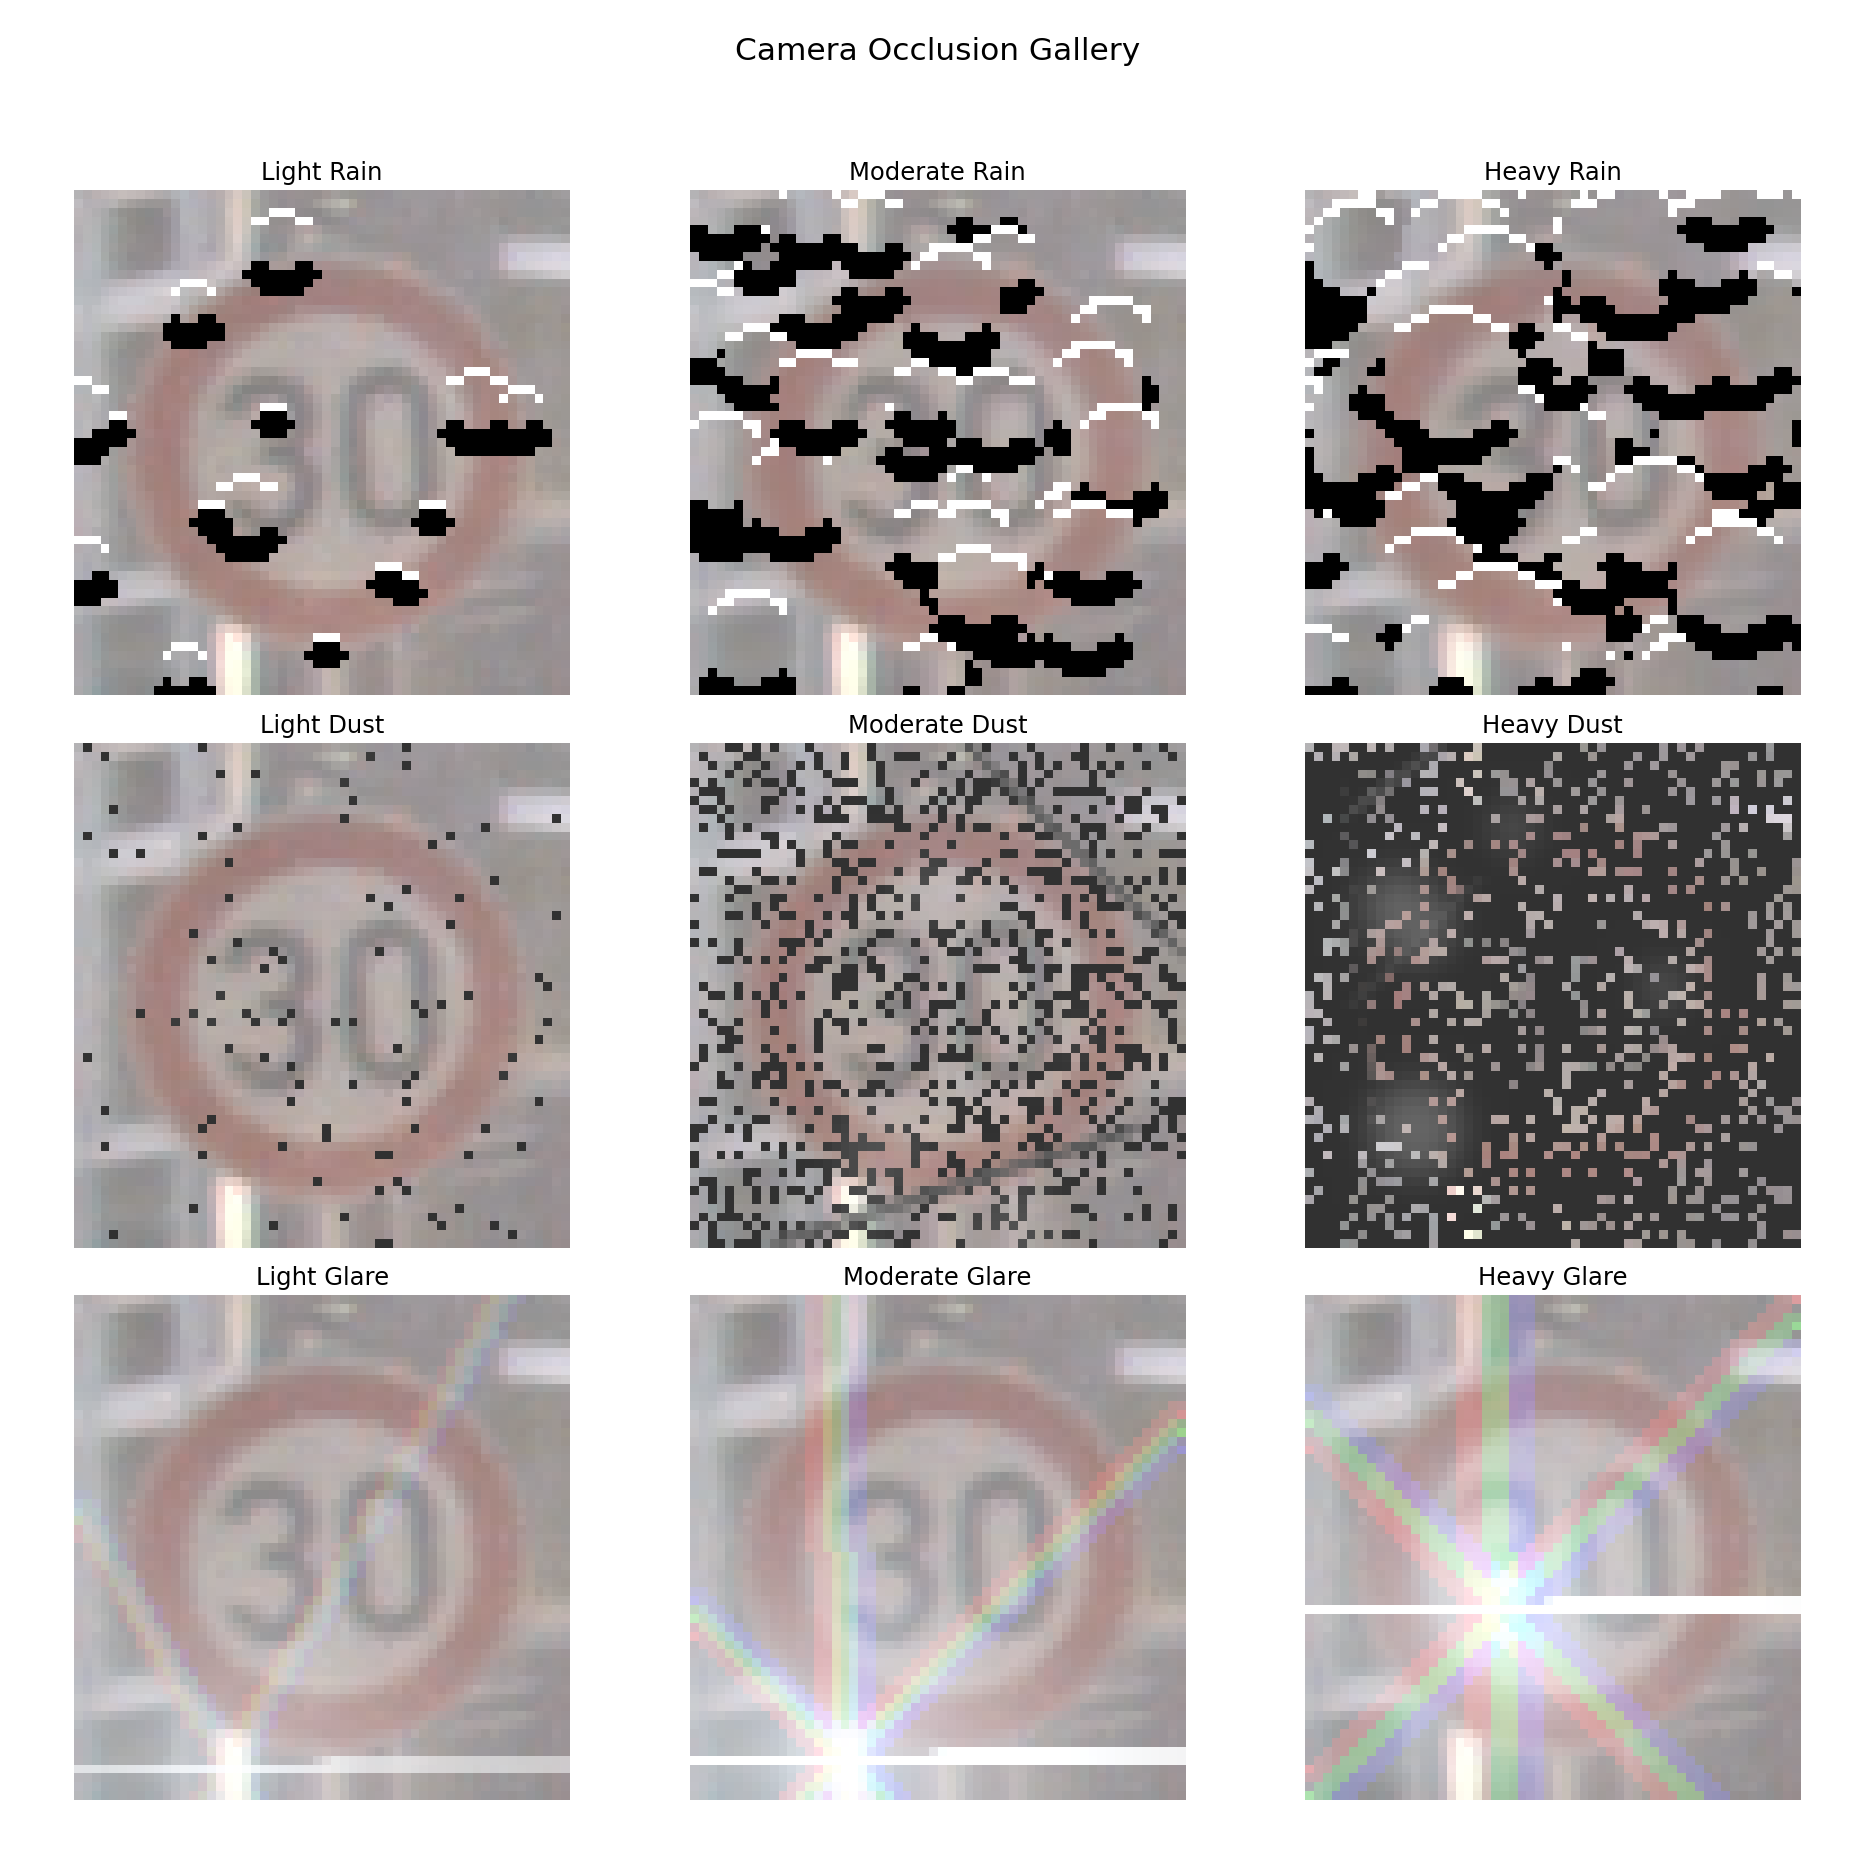
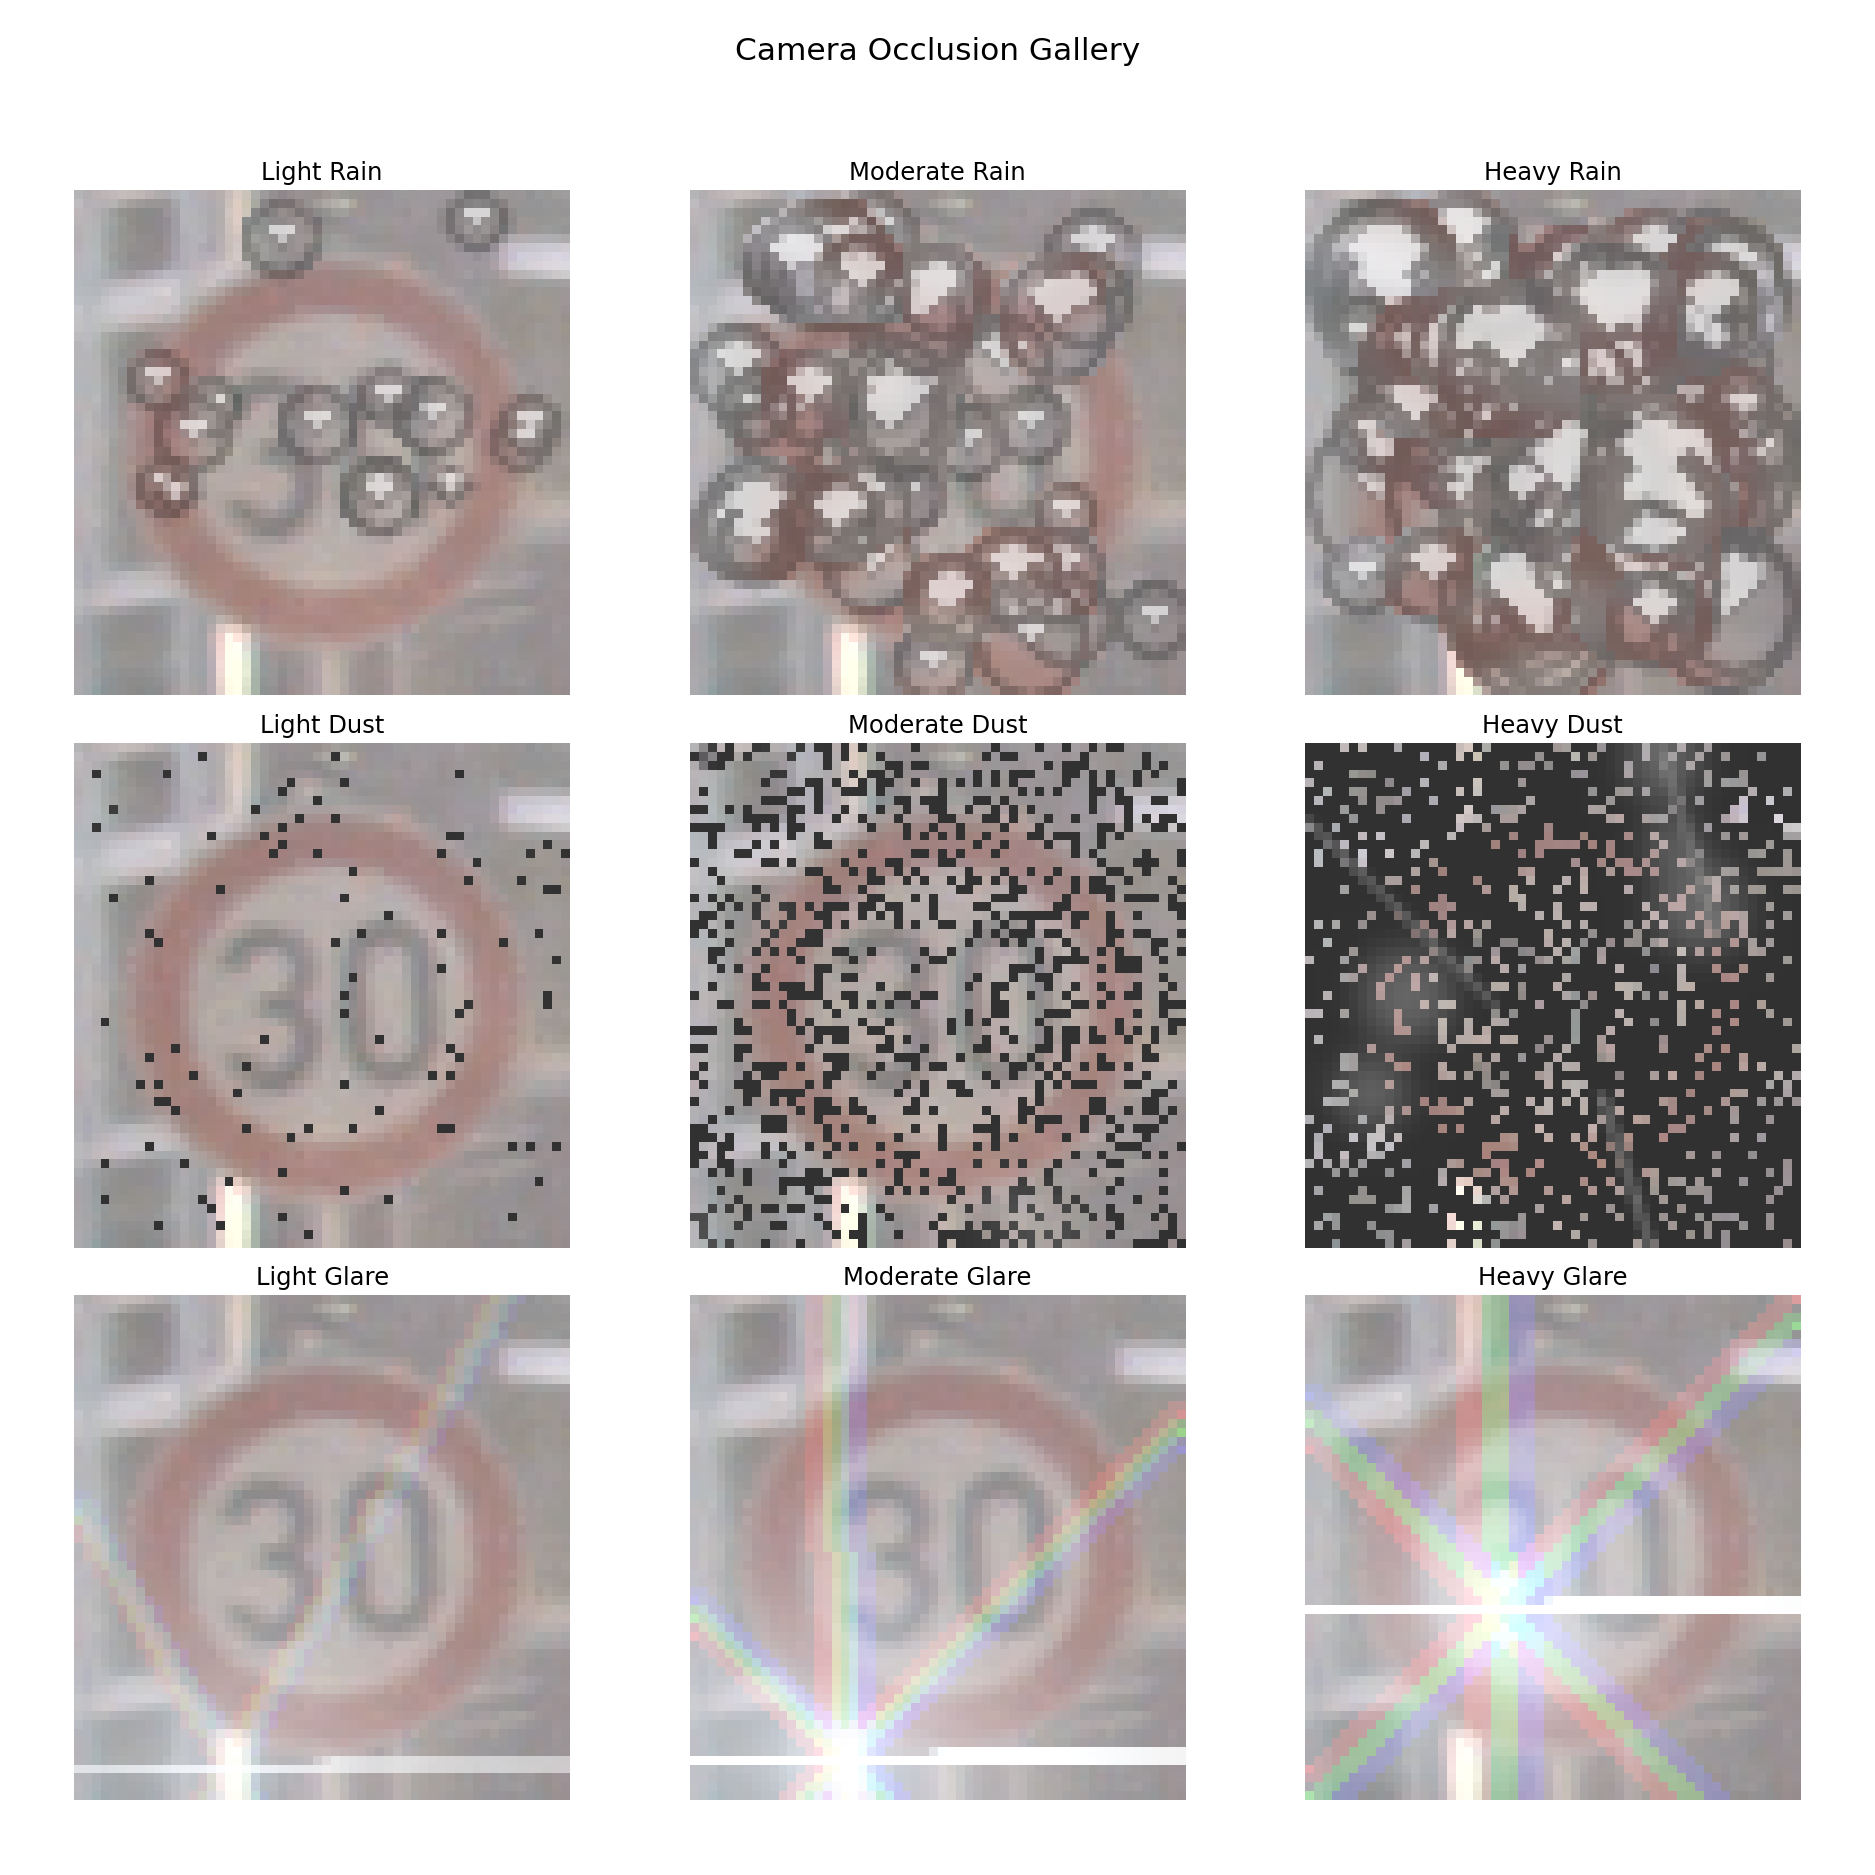
more realistic droplets

diff --git a/camera_occlusion/camera_noise.py b/camera_occlusion/camera_noise.py
@@ -20,7 +20,116 @@ class Effect(ABC):
         """Allows the class instance to be called as a function."""
         return self.apply(image)
 
+import cv2
+import numpy as np
+import random
+from abc import ABC, abstractmethod
+
+# (Keep your existing Effect ABC and other classes)
+
 class Rain(Effect):
+    """
+    Simulates raindrops on a camera lens with physically-inspired effects.
+    
+    This effect models raindrops as small lenses, introducing several phenomena:
+        - Refraction: The image seen through the drop is inverted and distorted.
+        - Gravity: Larger drops are slightly elongated downwards.
+        - Edge Blur: The drop's contents are blurred to simulate a different focal plane.
+        - Lighting: A dark edge and a specular highlight give the drop a 3D appearance.
+        - Chromatic Aberration: Subtle color fringing appears at the drop's edges.
+    """
+    def __init__(self,
+                 num_drops: int = 40,
+                 radius_range: tuple = (3, 10),
+                 magnification: float = 0.8,
+                 blur_amount: int = 5,
+                 elongation_factor: float = 1.2,
+                 chromatic_aberration: float = 0.03,
+                 highlight_alpha: float = 0.6,
+                 shade_alpha: float = 0.3):
+        """
+        Initializes the Rain effect with detailed parameters.
+        """
+        self.num_drops = num_drops
+        self.radius_range = radius_range
+        self.magnification = max(0.1, magnification)
+        self.blur_amount = blur_amount if blur_amount % 2 != 0 else blur_amount + 1
+        self.elongation_factor = elongation_factor
+        self.chromatic_aberration = chromatic_aberration
+        # Storing colors as BGRA for OpenCV compatibility
+        self.highlight_color = (255, 255, 255, int(highlight_alpha * 255))
+        self.shade_color = (0, 0, 0, int(shade_alpha * 255))
+
+    def apply(self, image):
+        img_out = image.copy()
+        h, w, _ = image.shape
+
+        # --------------------- FIX: Create a transparent overlay for highlights/shadows ---------------------
+        # This allows for proper alpha blending and anti-aliasing of lighting effects.
+        overlay = np.zeros((h, w, 4), dtype=np.uint8)
+
+        for _ in range(self.num_drops):
+            radius = random.randint(*self.radius_range)
+            elongation = 1.0 + (radius / self.radius_range[1]) * (self.elongation_factor - 1.0)
+            radius_y = int(radius * elongation)
+
+            center_x = random.randint(radius, w - radius)
+            center_y = random.randint(radius_y, h - radius_y)
+            
+            x1, y1 = center_x - radius, center_y - radius_y
+            x2, y2 = center_x + radius, center_y + radius_y
+            patch = image[y1:y2, x1:x2]
+            
+            if patch.size == 0: continue
+
+            refracted_patch = cv2.resize(patch, (0, 0), fx=self.magnification, fy=self.magnification, interpolation=cv2.INTER_LINEAR)
+            refracted_patch = cv2.flip(refracted_patch, 0)
+            
+            rh, rw, _ = refracted_patch.shape
+            ph, pw, _ = patch.shape
+            
+            if self.magnification < 1.0:
+                distorted_patch = np.copy(patch)
+                paste_x, paste_y = (pw - rw) // 2, (ph - rh) // 2
+                distorted_patch[paste_y:paste_y+rh, paste_x:paste_x+rw] = refracted_patch
+            else:
+                crop_x, crop_y = (rw - pw) // 2, (rh - ph) // 2
+                distorted_patch = refracted_patch[crop_y:crop_y+ph, crop_x:crop_x+pw]
+
+            if distorted_patch.shape != patch.shape: continue
+
+            if self.chromatic_aberration > 0:
+                offset = int(radius * self.chromatic_aberration)
+                b, g, r = cv2.split(distorted_patch)
+                r_shifted, b_shifted = np.roll(r, offset, axis=1), np.roll(b, -offset, axis=1)
+                distorted_patch = cv2.merge([b_shifted, g, r_shifted])
+
+            distorted_patch = cv2.GaussianBlur(distorted_patch, (self.blur_amount, self.blur_amount), 0)
+
+            mask = np.zeros_like(patch, dtype=np.uint8)
+            cv2.ellipse(mask, (radius, radius_y), (radius, radius_y), 0, 0, 360, (255, 255, 255), -1, lineType=cv2.LINE_AA)
+            
+            img_out[y1:y2, x1:x2] = np.where(mask > 0, distorted_patch, img_out[y1:y2, x1:x2])
+
+            # Draw smooth, anti-aliased lighting effects ON THE OVERLAY
+            cv2.ellipse(overlay, (center_x, center_y), (radius, radius_y), 0, 0, 360, self.shade_color, 1, lineType=cv2.LINE_AA)
+            highlight_radius, highlight_radius_y = int(radius * 0.7), int(radius_y * 0.7)
+            cv2.ellipse(overlay, (center_x, center_y), (highlight_radius, highlight_radius_y), 0, 225, 315, self.highlight_color, -1, lineType=cv2.LINE_AA)
+
+        # --------------------- FIX: Alpha-blend the overlay onto the final image ---------------------
+        # Convert output to 4-channel to prepare for blending
+        img_out_rgba = cv2.cvtColor(img_out, cv2.COLOR_RGB2RGBA)
+        
+        # Extract the alpha channel from the overlay and expand it to 3 channels
+        alpha = overlay[..., 3, np.newaxis] / 255.0
+        
+        # Blend the overlay (RGB channels) with the main image
+        img_out_rgba[..., :3] = overlay[..., :3] * alpha + img_out_rgba[..., :3] * (1 - alpha)
+        
+        # Convert back to RGB for final output
+        return cv2.cvtColor(img_out_rgba, cv2.COLOR_RGBA2RGB)
+
+class Simple_Rain(Effect):
     """
     Simulates raindrops on a camera lens with distortion, shading, and highlights.
     
